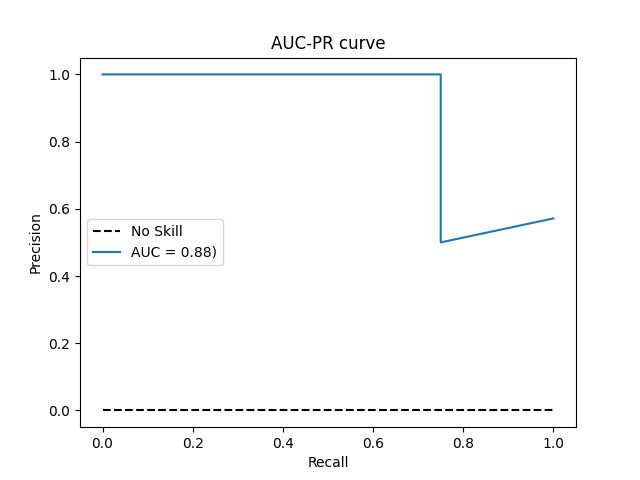
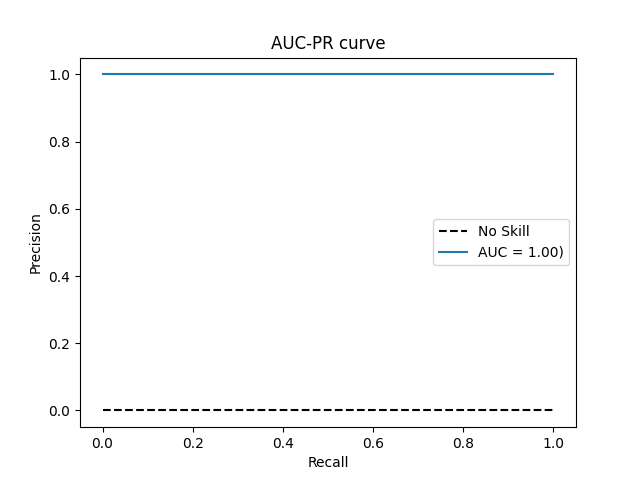
Inferencia de datos para metastasis a distancia modificada (sin pacientes NX o N0 y sin la variable os_status)

diff --git a/patient_status/distant_metastasis/training_codes/data/data_distant_metastasis_prediction.py b/patient_status/distant_metastasis/training_codes/data/data_distant_metastasis_prediction.py
@@ -79,7 +79,7 @@ df_os_status = pd.DataFrame.from_dict(os_status.items()); df_os_status.rename(co
 df_path_m_stage = pd.DataFrame.from_dict(path_m_stage.items()); df_path_m_stage.rename(columns = {0 : 'ID', 1 : 'path_m_stage'}, inplace = True)
 
 df_list = [df_age, df_neoadjuvant, df_path_m_stage, df_path_n_stage, df_path_t_stage, df_stage, df_subtype,
-           df_tumor_type, df_prior_diagnosis, df_os_status, df_snv, df_cnv]
+           df_tumor_type, df_prior_diagnosis, df_snv, df_cnv]
 
 """ Fusionar todos los dataframes (los cuales se han recopilado en una lista) por la columna 'ID' para que ningún valor
 esté descuadrado en la fila que no le corresponda. """
@@ -377,10 +377,11 @@ for index in range(1084):
     if index not in list_gen_cnv_amp[10] and index not in list_gen_cnv_del[10]:
         df_all_merge.loc[index, 'CNV_FANCA_NORMAL'] = 1
 
-""" En este caso, el se incluyen los pacientes con categoria 'N0 o 'NX', y por tanto, no se eliminan. Si que se eliminan
-aquellos pacientes a los que no se les puede determinar si tienen o no metastasis, porque sino el problema ya no seria
-de clasificacion binaria. """
-df_all_merge = df_all_merge[(df_all_merge["path_m_stage"]!='MX')]
+""" En este caso, se eliminan los pacientes con categoria 'N0 o 'NX', y tambien aquellos pacientes a los que no se les 
+puede determinar si tienen o no metastasis, porque sino el problema ya no seria de clasificacion binaria. """
+df_all_merge = df_all_merge[(df_all_merge["path_n_stage"]!='N0') & (df_all_merge["path_n_stage"]!='NX') &
+                            (df_all_merge["path_n_stage"]!='N0 (I-)') & (df_all_merge["path_n_stage"]!='N0 (I+)') &
+                            (df_all_merge["path_n_stage"]!='N0 (MOL+)') & (df_all_merge["path_m_stage"]!='MX')]
 
 """ Al realizar un análisis de los datos de entrada se ha visto un único valor incorrecto en la columna
 'cancer_type_detailed'. Por ello se sustituye dicho valor por 'Breast Invasive Carcinoma (NOS)'. También se ha apreciado
@@ -389,7 +390,6 @@ convierten las columnas categóricas binarias a valores de '0' y '1', para no au
 df_all_merge.loc[df_all_merge.tumor_type == "Infiltrating Carcinoma (NOS)", "tumor_type"] = "Mixed Histology (NOS)"
 df_all_merge.loc[df_all_merge.tumor_type == "Breast Invasive Carcinoma", "tumor_type"] = "Infiltrating Ductal Carcinoma"
 df_all_merge.loc[df_all_merge.neoadjuvant == "No", "neoadjuvant"] = 0; df_all_merge.loc[df_all_merge.neoadjuvant == "Yes", "neoadjuvant"] = 1
-df_all_merge.loc[df_all_merge.os_status == "0:LIVING", "os_status"] = 0; df_all_merge.loc[df_all_merge.os_status == "1:DECEASED", "os_status"] = 1
 df_all_merge.loc[df_all_merge.prior_diagnosis == "No", "prior_diagnosis"] = 0; df_all_merge.loc[df_all_merge.prior_diagnosis == "Yes", "prior_diagnosis"] = 1
 df_all_merge.loc[df_all_merge.path_m_stage == "CM0 (I+)", "path_m_stage"] = 'M0'
 df_all_merge.loc[df_all_merge.path_m_stage == "M0", "path_m_stage"] = 0; df_all_merge.loc[df_all_merge.path_m_stage == "M1", "path_m_stage"] = 1
@@ -477,10 +477,10 @@ model.compile(loss = 'binary_crossentropy', # Esta función de loss suele usarse
               metrics = metrics)
 
 """ Se implementa un callback: para guardar el mejor modelo que tenga la menor 'loss' en la validación. """
-checkpoint_path = '../../inference/data/test_data&models/data_model_distant_metastasis_prediction.h5'
+checkpoint_path = '../../training_codes/data/data_model_distant_metastasis_prediction.h5'
 mcp_save = ModelCheckpoint(filepath= checkpoint_path, save_best_only = True, monitor= 'val_loss', mode= 'min')
 
-smoter = imblearn.over_sampling.SMOTE(sampling_strategy='minority')
+smoter = imblearn.over_sampling.SMOTE(sampling_strategy = 'minority')
 train_tabular_data, train_labels = smoter.fit_resample(train_tabular_data, train_labels)
 
 """ Esto se hace para que al hacer el entrenamiento, los pesos de las distintas salidas se balaceen, ya que el conjunto
@@ -495,10 +495,10 @@ neural_network = model.fit(x = train_tabular_data,  # Datos de entrada.
                            y = train_labels,  # Datos objetivos.
                            epochs = 150,
                            verbose = 1,
-                           batch_size= 32,
-                           class_weight= class_weight_dict,
+                           batch_size = 32,
+                           class_weight = class_weight_dict,
                            #callbacks= mcp_save,
-                           validation_data = (valid_tabular_data, valid_labels)) # Datos de validación.
+                           validation_data = (valid_tabular_data, valid_labels))
 
 """ Una vez entrenado el modelo, se puede evaluar con los datos de test y obtener los resultados de las métricas
 especificadas en el proceso de entrenamiento. En este caso, se decide mostrar los resultados de la 'loss', la exactitud,

diff --git a/patient_status/distant_metastasis/training_codes/image/image_distant_metastasis_prediction.py b/patient_status/distant_metastasis/training_codes/image/image_distant_metastasis_prediction.py
@@ -130,8 +130,8 @@ for id_img in remove_img_list:
 
 """ Una vez ya se tienen todas las imágenes valiosas y todo perfectamente enlazado entre datos e imágenes, se definen 
 las dimensiones que tendrán cada una de ellas. """
-alto = int(50) # Eje Y: 630. Nº de filas
-ancho = int(50) # Eje X: 1480. Nº de columnas
+alto = int(315) # Eje Y: 630. Nº de filas
+ancho = int(740) # Eje X: 1480. Nº de columnas
 canales = 3 # Imágenes a color (RGB) = 3
 
 mitad_alto = int(alto/2)
@@ -159,8 +159,8 @@ train_image_data = []
 
 for image in pre_train_image_data:
     train_image_data.append(image)
-    rotate = iaa.Affine(rotate=(-20, 20), mode= 'edge')
-    train_image_data.append(rotate.augment_image(image))
+    #rotate = iaa.Affine(rotate=(-20, 20), mode= 'edge')
+    #train_image_data.append(rotate.augment_image(image))
     gaussian_noise = iaa.AdditiveGaussianNoise(10, 20)
     train_image_data.append(gaussian_noise.augment_image(image))
     #crop = iaa.Crop(percent=(0, 0.3))
@@ -169,8 +169,8 @@ for image in pre_train_image_data:
     #train_image_data.append(shear.augment_image(image))
     flip_hr = iaa.Fliplr(p=1.0)
     train_image_data.append(flip_hr.augment_image(image))
-    #flip_vr = iaa.Flipud(p=1.0)
-    #train_image_data.append(flip_vr.augment_image(image))
+    flip_vr = iaa.Flipud(p=1.0)
+    train_image_data.append(flip_vr.augment_image(image))
     contrast = iaa.GammaContrast(gamma=2.0)
     train_image_data.append(contrast.augment_image(image))
     #scale_im = iaa.Affine(scale={"x": (1.5, 1.0), "y": (1.5, 1.0)})
@@ -248,7 +248,7 @@ model.compile(loss = 'binary_crossentropy', # Esta función de loss suele usarse
               metrics = metrics)
 
 """ Se implementa un callback: para guardar el mejor modelo que tenga la mayor sensibilidad en la validación. """
-checkpoint_path = 'model_image_distant_metastasis_prediction.h5'
+checkpoint_path = '../../training_codes/image/model_image_distant_metastasis_prediction.h5'
 mcp_save = ModelCheckpoint(filepath= checkpoint_path, save_best_only = False)
 
 """ Esto se hace para que al hacer el entrenamiento, los pesos de las distintas salidas se balaceen, ya que el conjunto
@@ -261,12 +261,12 @@ class_weight_dict = dict(enumerate(class_weights))
 """ Una vez definido y compilado el modelo, es hora de entrenarlo. """
 neural_network = model.fit(x = train_image_data,  # Datos de entrada.
                            y = train_labels,  # Datos objetivos.
-                           epochs = 50,
+                           epochs = 1,
                            verbose = 1,
-                           batch_size= 32,
-                           class_weight= class_weight_dict,
-                           #callbacks= mcp_save,
-                           validation_data = (valid_image_data, valid_labels)) # Datos de validación.
+                           batch_size = 32,
+                           class_weight = class_weight_dict,
+                           callbacks = mcp_save,
+                           validation_data = (valid_image_data, valid_labels))
 
 """ Una vez entrenado el modelo, se puede evaluar con los datos de test y obtener los resultados de las métricas
 especificadas en el proceso de entrenamiento. En este caso, se decide mostrar los resultados de la 'loss', la exactitud,
@@ -358,5 +358,5 @@ plt.title('AUC-PR curve')
 plt.legend(loc = 'best')
 plt.show()
 
-#np.save('test_image', test_image_data)
-#np.save('test_labels', test_labels)
+np.save('test_image', test_image_data)
+np.save('test_labels', test_labels)

diff --git a/patient_status/distant_metastasis/inference/image/inference/image_distant_metastasis_inference.py b/patient_status/distant_metastasis/inference/image/inference/image_distant_metastasis_inference.py
@@ -20,7 +20,7 @@ alto = 315 # 630
 ancho = 740 # 1480
 canales = 3 # Imágenes a color (RGB) = 3
 
-model = load_model('/home/avalderas/img_slides/patient_status/distant_metastasis/inference/image/test_data&models/model_snv_image_tp53_epoch02.h5')
+model = load_model('/home/avalderas/img_slides/patient_status/distant_metastasis/inference/image/test_data&models/model_image_distant_metastasis_prediction.h5')
 
 test_image_data = np.load('/home/avalderas/img_slides/patient_status/distant_metastasis/inference/image/test_data&models/test_image.npy')
 test_labels = np.load('/home/avalderas/img_slides/patient_status/distant_metastasis/inference/image/test_data&models/test_labels.npy')
